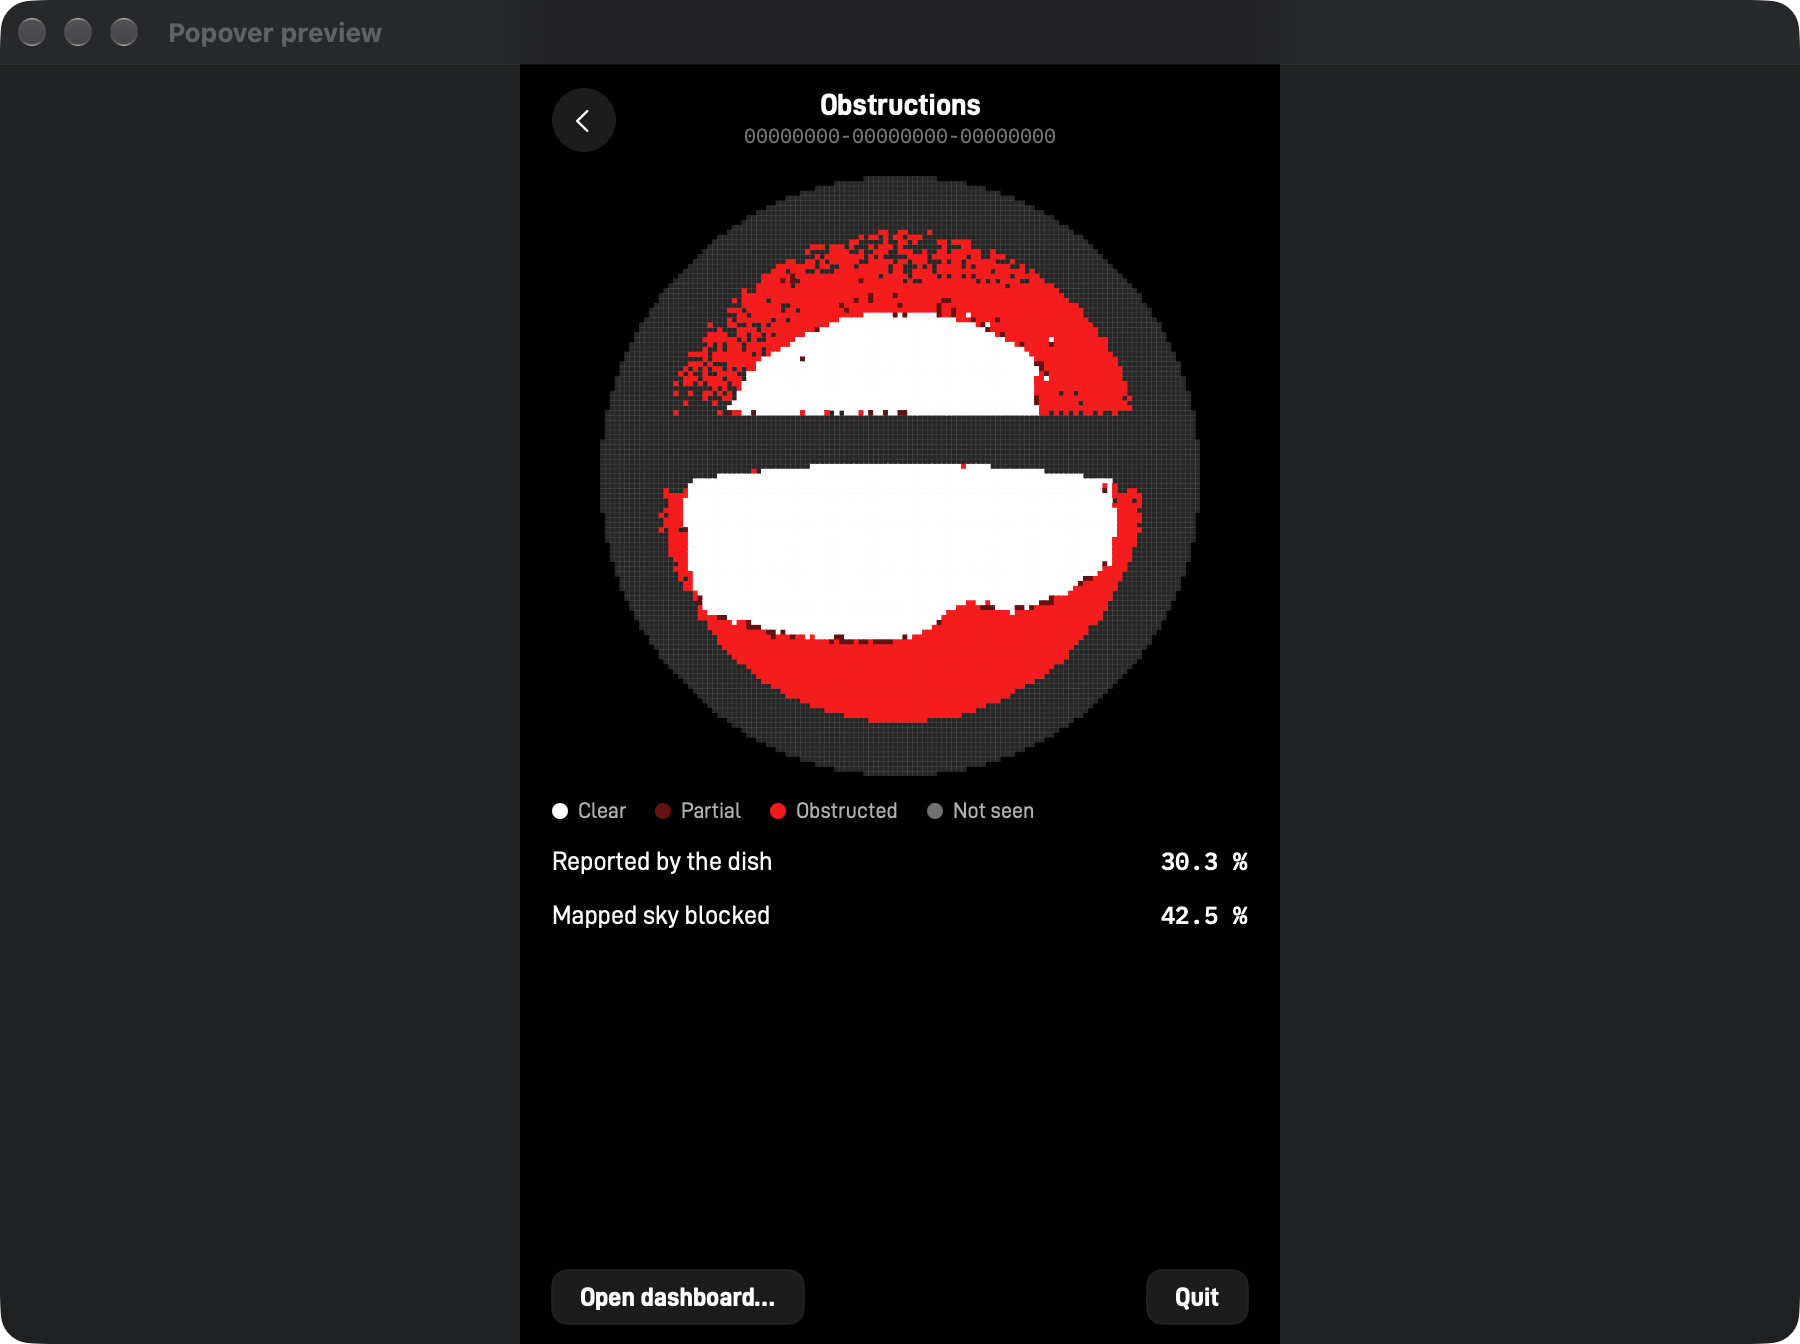
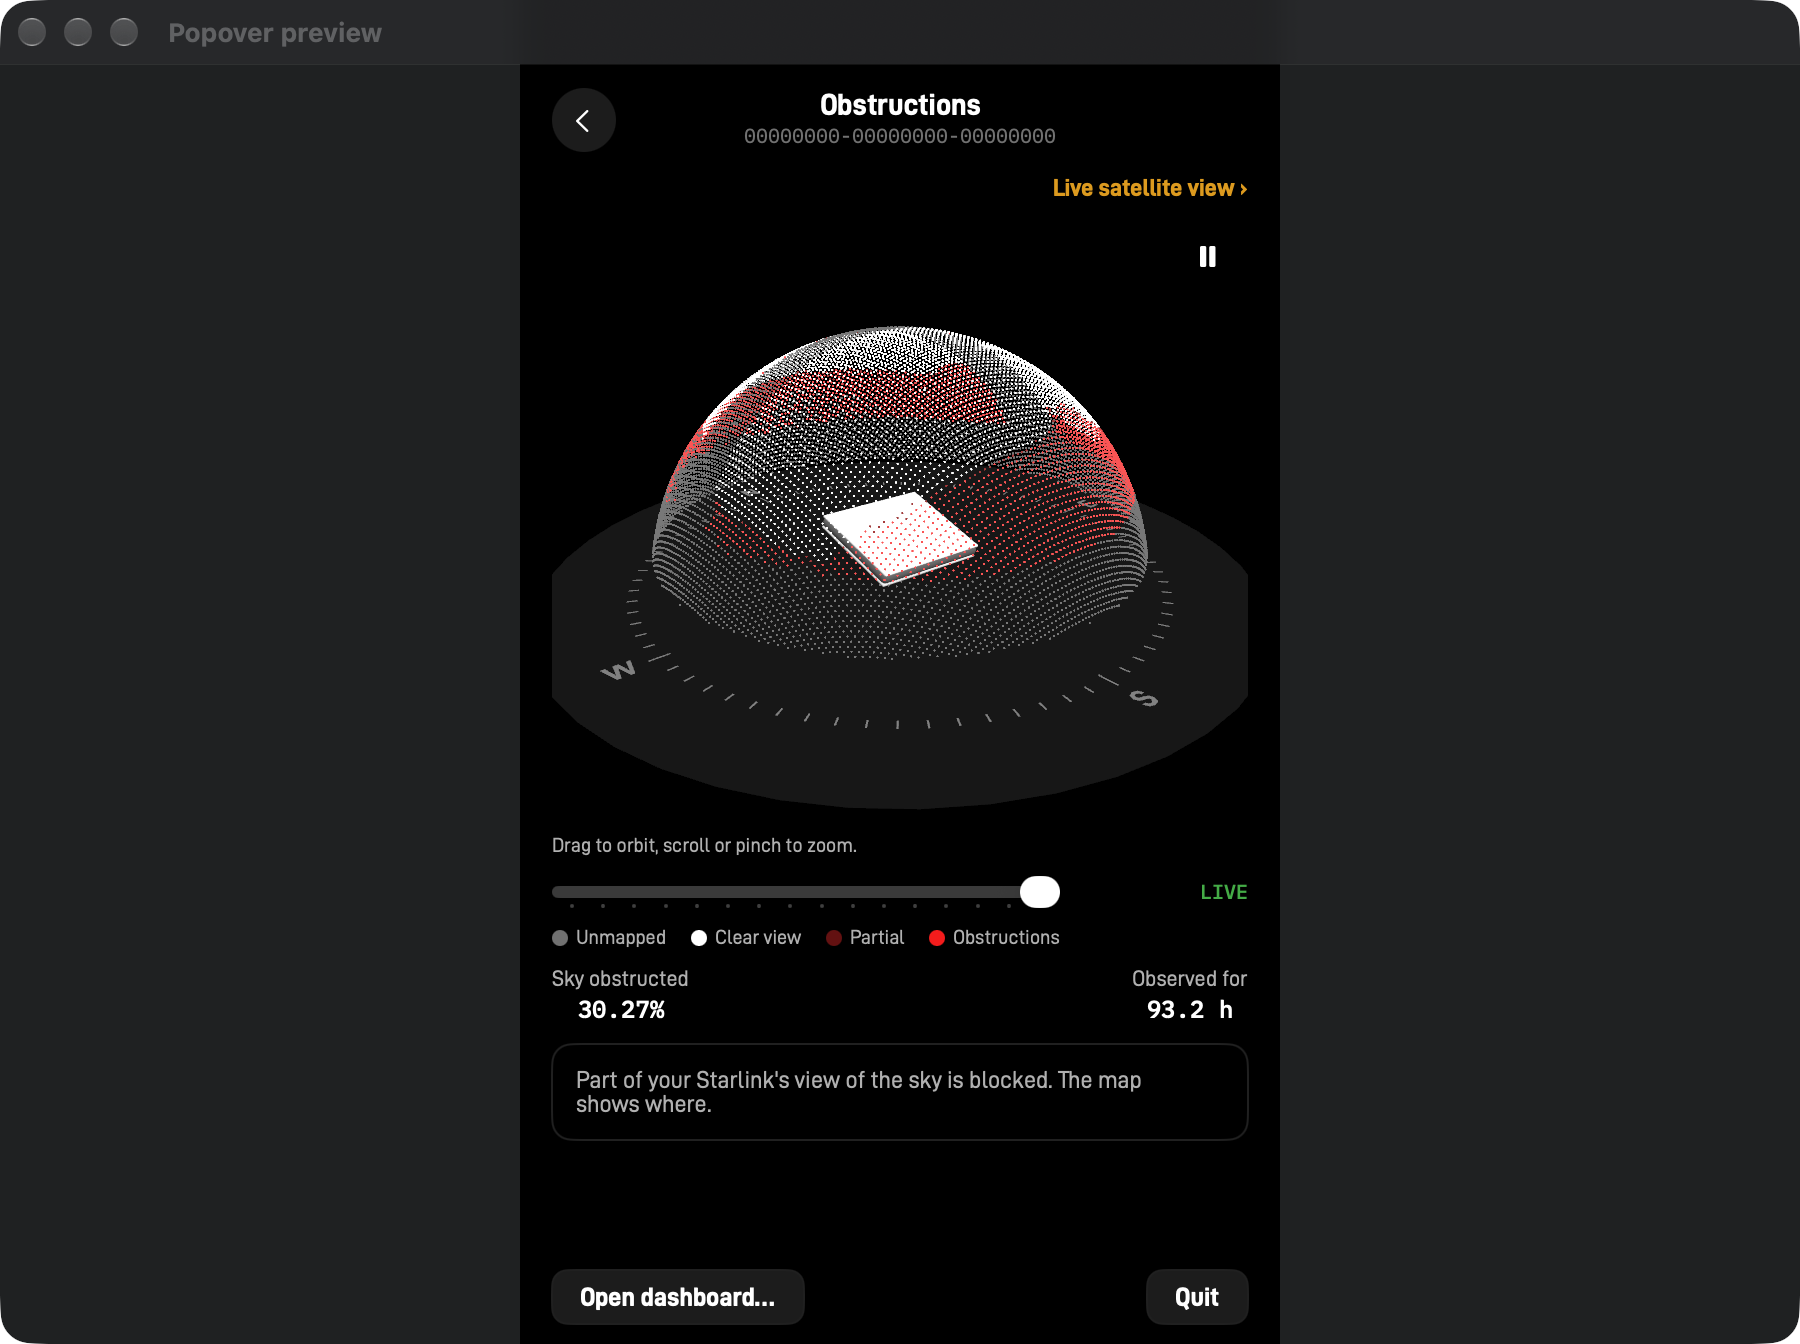
Popover obstructions page uses the dashboard's 3D dome view
The dome, time-lapse, legend and figures move into ObstructionsSummary,
shared by the dashboard card and the popover page.

diff --git a/Sources/StarPulse/DashboardParts.swift b/Sources/StarPulse/DashboardParts.swift
@@ -207,6 +207,34 @@ struct PowerCard: View {
 struct ObstructionsCard: View {
     var store: TelemetryStore
     var onSatellites: () -> Void = {}
+
+    var body: some View {
+        VStack(alignment: .leading, spacing: 10) {
+            HStack {
+                Text("Obstructions").font(Theme.ui(15, .semibold)).foregroundStyle(Theme.ink)
+                Spacer()
+                SatelliteLink(action: onSatellites)
+            }
+            ObstructionsSummary(store: store, domeHeight: 280)
+        }
+        .padding(16)
+        .background(Theme.surface, in: RoundedRectangle(cornerRadius: 14))
+        .overlay(RoundedRectangle(cornerRadius: 14).stroke(Theme.hairline))
+    }
+}
+
+struct SatelliteLink: View {
+    var action: () -> Void
+    var body: some View {
+        Button("Live satellite view ›", action: action).buttonStyle(.plain).font(Theme.ui(12, .semibold)).foregroundStyle(Theme.accent)
+            .help("Open the live view of Starlink satellites over your obstruction map")
+    }
+}
+
+/// The 3D dome with its time-lapse, legend and figures, shared by the dashboard card and the popover page.
+struct ObstructionsSummary: View {
+    var store: TelemetryStore
+    var domeHeight: CGFloat
     @State private var rotating = true
     /// nil shows the live map; otherwise the index of a stored hourly frame.
     @State private var frameIndex: Int?
@@ -215,18 +243,12 @@ struct ObstructionsCard: View {
         let status = store.status
         let percent = Double(status?.fractionObstructed ?? 0) * 100
         VStack(alignment: .leading, spacing: 10) {
-            HStack {
-                Text("Obstructions").font(Theme.ui(15, .semibold)).foregroundStyle(Theme.ink)
-                Spacer()
-                Button("Live satellite view ›", action: onSatellites).buttonStyle(.plain).font(Theme.ui(12, .semibold)).foregroundStyle(Theme.accent)
-                    .help("Open the live view of Starlink satellites over your obstruction map")
-            }
             if let live = store.obstructionMap, !live.isEmpty {
                 let map = frameIndex.flatMap { store.snapshots.indices.contains($0) ? store.snapshots[$0].map : nil } ?? live
                 ZStack(alignment: .topTrailing) {
                     SkySceneView(mode: .dome, map: map, boresightAzimuthDeg: Double(status?.boresightAzimuthDeg ?? 0),
                                  boresightElevationDeg: Double(status?.boresightElevationDeg ?? 90), rotating: rotating)
-                        .frame(height: 280).clipShape(RoundedRectangle(cornerRadius: 10))
+                        .frame(height: domeHeight).clipShape(RoundedRectangle(cornerRadius: 10))
                     Button { rotating.toggle() } label: { Image(systemName: rotating ? "pause.fill" : "play.fill").frame(width: 28, height: 28) }
                         .buttonStyle(.plain).foregroundStyle(Theme.ink).padding(6)
                         .help(rotating ? "Stop the dome turning" : "Turn the dome slowly").accessibilityLabel(rotating ? "Stop rotation" : "Start rotation")
@@ -249,9 +271,6 @@ struct ObstructionsCard: View {
                 .padding(12).frame(maxWidth: .infinity, alignment: .leading)
                 .overlay(RoundedRectangle(cornerRadius: 10).stroke(Theme.hairline))
         }
-        .padding(16)
-        .background(Theme.surface, in: RoundedRectangle(cornerRadius: 14))
-        .overlay(RoundedRectangle(cornerRadius: 14).stroke(Theme.hairline))
     }
 
     /// Scrubber over the hourly frames with LIVE as the last stop, as in Dishylink's ObstructionTimeLapse.

diff --git a/Sources/StarPulse/PopoverView.swift b/Sources/StarPulse/PopoverView.swift
@@ -212,7 +212,11 @@ struct PopoverView: View {
         switch page {
         case .statistics: StatisticsCards(store: store) { path.append(.detail($0)) }
         case .network: NetworkPanel(store: store, account: account)
-        case .obstructions: ObstructionDetail(store: store)
+        case .obstructions:
+            VStack(alignment: .trailing, spacing: 8) {
+                SatelliteLink { path.append(.satellites) }
+                ObstructionsSummary(store: store, domeHeight: 300)
+            }
         case .alignment: AlignmentDetail(reading: store.alignment)
         case .speedTest: SpeedTestView(model: store.speedTest, store: store)
         case .satellites: SatelliteView(store: store, account: account)

diff --git a/docs/screens.md b/docs/screens.md
@@ -55,8 +55,9 @@ for the selected window, and the distribution of both.
 
 ![Obstructions](images/obstructions.png)
 
-The dish's own obstruction map as a flat sky plot: clear, partial, obstructed and not yet seen
-areas. It compares the share the dish reports with the share of the mapped sky that is blocked.
+The same view as the dashboard card, sized for the popover: the dish's obstruction map as a 3D dome
+you can orbit and zoom, the hourly time-lapse, the share of sky obstructed, how long the dish has
+been mapping, and a link to the live satellite view.
 
 ## Satellites
 
